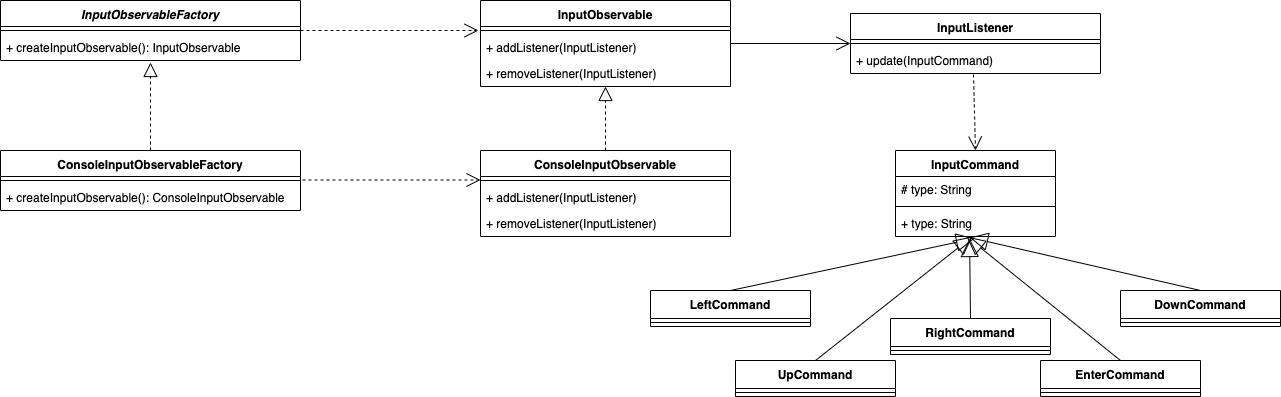
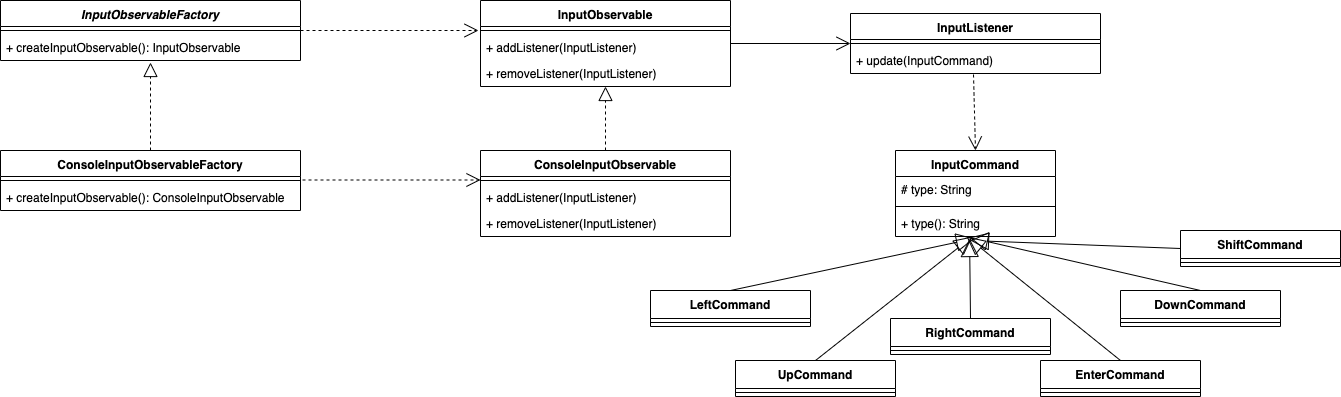
add input component description

diff --git a/architecture/ARCHITECTURE.md b/architecture/ARCHITECTURE.md
@@ -213,8 +213,61 @@
 ##### enumeration SelectedItem
 Опции главного экрана, одна из которых выделена в любой момент времени.
 
+##### abstract class Action
+Отвечает за некоторое действие, совершенное в игре игроком.
+Наследники: `Attack`, `MoveLeft`, `MoveRight`, `MoveUp`, `MoveDown`, `ChangeEquiption`.
+
 ##### Диаграмма:
 <img src="images/controller_component.png"/>
+
+#### Input manager
+Отвечает за получение, обработку и перенаправление пользовательского ввода.
+##### abstract class InputObservableFactory
+Абстрактная фабрика для создания наследников интерфейса `InputObservable`.
+При необходимости добавить новый источник ввода пользователю достаточно определить нового наследника для нее.
+
+**Методы**:
++ `createInputObservable(): InputObservable`
+
+
+**Реализация**:
+- **class ConsoleInputObservableFactory** - создает элемент типа `ConsoleInputObservable`
+
+##### interface InputObservable
+Интерфейс, определяющий методы для добавления, удаления и оповещения наблюдателей;
+
+**Методы**:
++ `addListener(InputListener)` - добавление наблюдателя
++ `removeListener(InputListener)` - удаление наблюдателя
+
+**Реализация**:
+- **class ConsoleInputObservable** 
+
+##### interface InputListener
+Интерфейс, определяющий метод для получения оповещений.
+
+**Методы**:
++ `update(InputCommand)` - оповещение наблюдателя о введении команды
+
+**Реализация**:
+- **class ApplicationInteractionManager**
+- **class GameInteractionManager**
+
+##### abstract class InputCommand
+Описывает команду, введенную пользователем.
+
+**Методы**:
++ `type(): String` - возвращает тип команды.
+
+**Реализация**:
+- **class LeftCommand**
+- **class UpCommand**
+- **class RightCommand**
+- **class DownCommand**
+- **class EnterCommand**
+- **class ShiftCommand**
+##### Диаграмма:
+<img src="images/input_component.png"/>
 
 ### Взаимодействия и состояния
 
